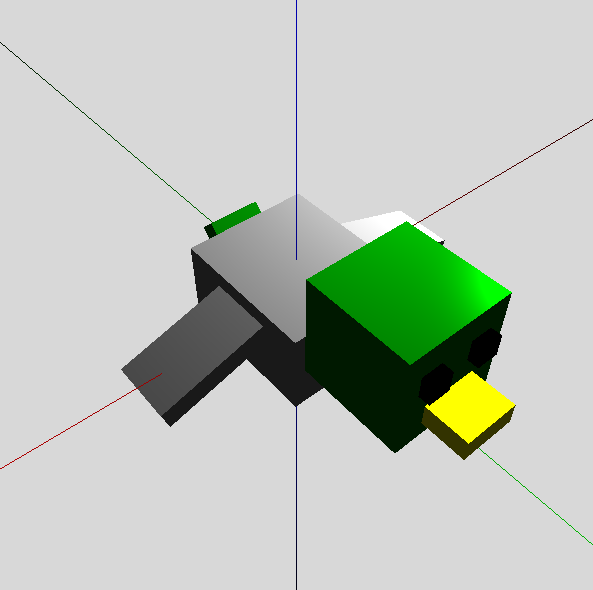
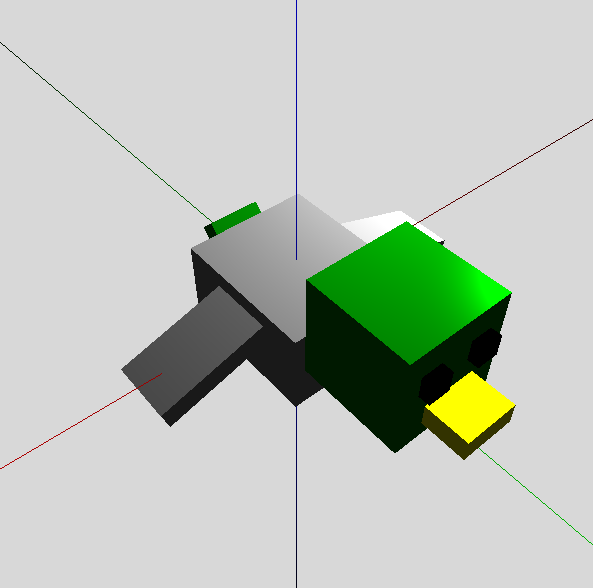
new images for README.md and README.md update (final version)

diff --git a/README.md b/README.md
@@ -9,16 +9,16 @@
 
 - [About](#about)
 - [Requirements and Quick Start](#requirements-and-quick-start)
-- [Proyect 1b - Space Wars](#proyect-1b---space-wars)
-- [Proyect 2c - Bird Migration Simulator](#proyect-2c---bird-migration-simulator)
-- [Proyect 3a - Aquarium Problem and Visualization (PDE's)](#proyect-3a---aquarium-problem-and-visualization-(PDE's))
+- [Proyect 1b - Space Wars](#proyect-1b-space-wars)
+- [Proyect 2c - Bird Migration Simulator](#proyect-2c-bird-migration-simulator)
+- [Proyect 3a - Aquarium Problem and Visualization (PDE's)](#proyect-3a-aquarium-problem-and-visualization-(PDE's))
 - [Credits](#credits)
 - [Copyright and License](#copyright-and-license)
 
 ## About
 
 This repository contains the three mains projects from CC3501 - Modeling and Computer Graphics for Engineers <br>
-(5th semester of Computer Science Engineering at FCFM, University of Chile), 2020 fall semester edition (2020-1). 
+(5th semester of Computer Science Engineering at FCFM, University of Chile) 2020 fall semester edition (2020-1). 
 
 This course has a wide range of topics, such as:
 - Algorithms and Techniques for Computer Graphics 
@@ -57,7 +57,7 @@ To run the game it is necessary to run the space-war.py file specifying how many
 
 <div>
 <img src="https://github.com/salistito/Computer-Graphics/blob/main/Tarea2c_BirdHerd/Preview/bird.png" width="275" height="250"/>
-<img src="https://github.com/salistito/Computer-Graphics/blob/main/Tarea2c_BirdHerd/Preview/birdHerd_back.png" width="275" height="250"/>
+<img src="https://github.com/salistito/Computer-Graphics/blob/main/Tarea2c_BirdHerd/Preview/birdHerd_Back.png" width="275" height="250"/>
 <img src="https://github.com/salistito/Computer-Graphics/blob/main/Tarea2c_BirdHerd/Preview/birdHerd_Front.png" width="275" height="250"/>
 </div>
 
